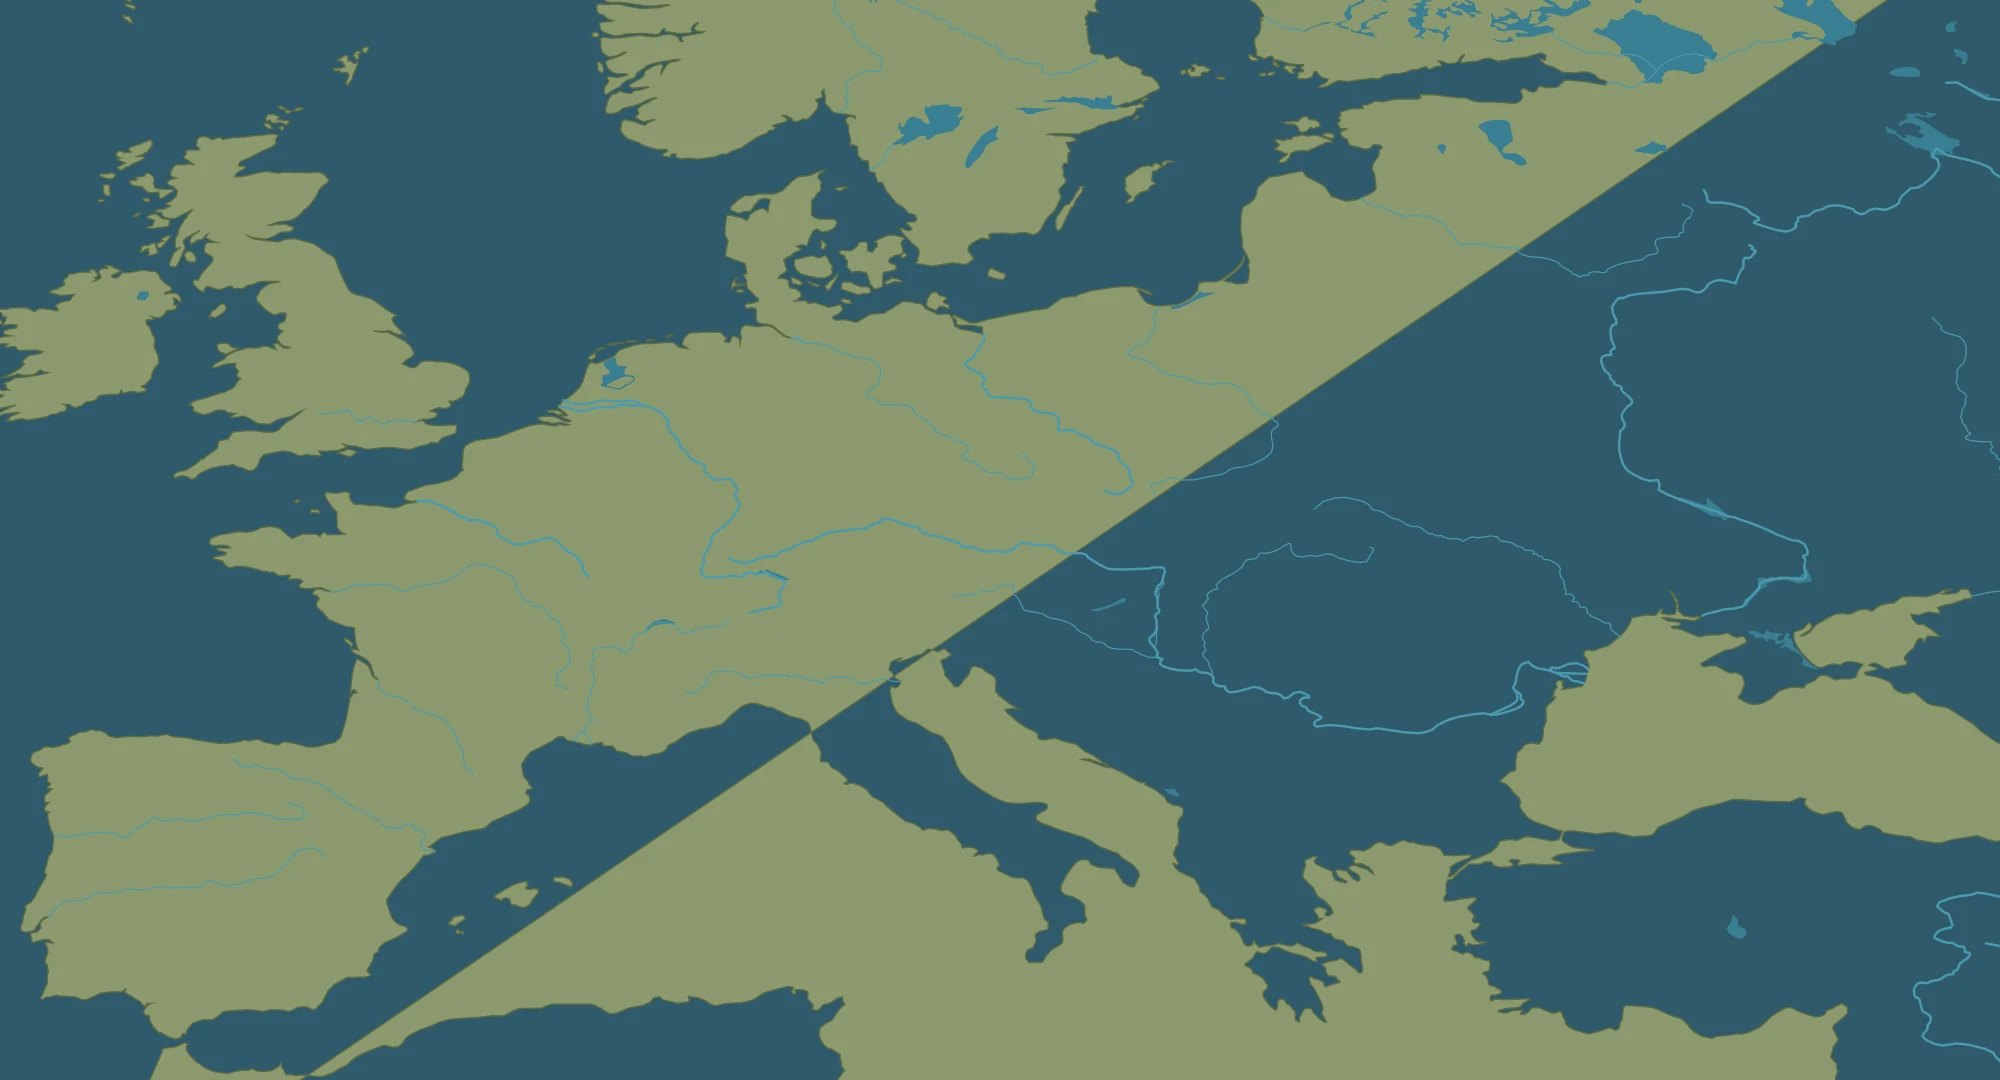
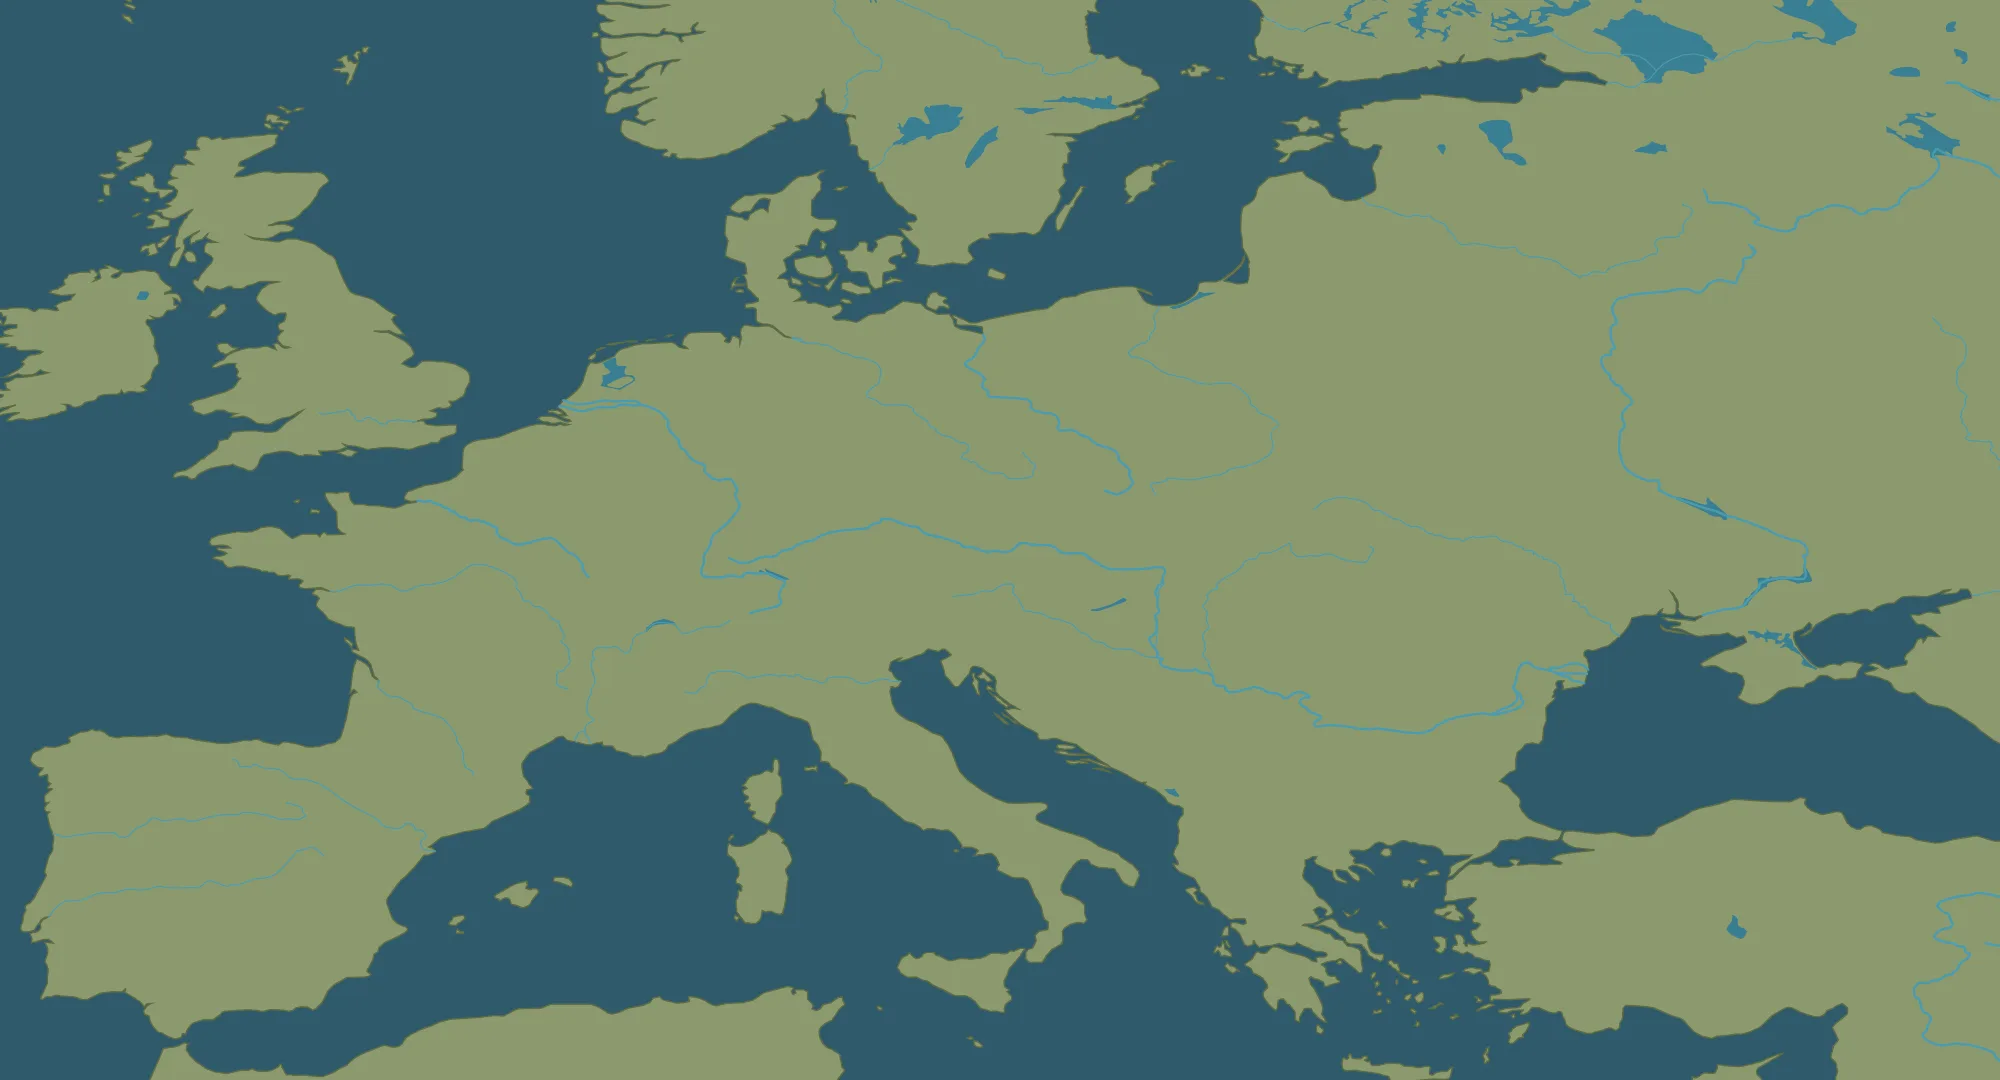
Europakarte: metrisch korrekte Georeferenzierung und vollständige Küsten
- Textur war ~67x zu klein gezeichnet; jetzt lineare Plate carrée mit Bezugsbreite 53,02°N
- Marker/Beschriftung gegenskaliert; Polygone nicht mehr abgeschnitten
- TODO aktualisiert

diff --git a/src/ui/KingdomMap.ts b/src/ui/KingdomMap.ts
@@ -1066,6 +1066,11 @@ export class KingdomMap {
     } else if (this.europeLayer.visible && zoom >= 0.02) {
       this.europeLayer.visible = false;
     }
+    if (this.europeLayer.visible) {
+      for (const child of this.europeLayer.children) {
+        if (child.label === 'europe-ui') child.scale.set(1 / Math.max(this.effectiveScreenScale(), 1e-9));
+      }
+    }
   }
 
   /**
@@ -1143,8 +1148,12 @@ export class KingdomMap {
     // Ganderkesee in Grad (aus EPSG:25832 Ortsmarker abgeleitet).
     const homeLon = 8.30, homeLat = 53.02;
     // Basispixel je Grad, so dass der Ortsmarker auf DWELLING_ANCHOR fällt.
-    const pxPerLon = 1 / 0.020833333; // 1 Basispixel = 20,8333 m; am Bezugsbreitengrad
-    const pxPerLat = pxPerLon / Math.cos(53.02 * Math.PI / 180); // Mercator-nahe Streckung
+    // Lineare Plate-carrée-Abbildung mit Metermaßstab am Bezugsbreitengrad:
+    // 1° Breite ≈ 110 950 m, 1° Länge ≈ 111 320 m × cos(Breite).
+    const METRES_PER_DEG_LAT = 110950;
+    const METRES_PER_DEG_LON_EQUATOR = 111320;
+    const pxPerLat = METRES_PER_DEG_LAT / METRES_PER_BASE_PIXEL;
+    const pxPerLon = METRES_PER_DEG_LON_EQUATOR * Math.cos(homeLat * Math.PI / 180) / METRES_PER_BASE_PIXEL;
     const lonToBase = (lon: number): number => (lon - homeLon) * pxPerLon;
     const latToBase = (lat: number): number => (homeLat - lat) * pxPerLat;
     const left = lonToBase(bounds.west);
@@ -1157,12 +1166,13 @@ export class KingdomMap {
     sprite.height = height;
     this.europeLayer.addChild(sprite);
     this.europeLayer.addChild(new Graphics()
-      .rect(left, top, width, height).stroke({ color: 0x6b8270, width: 2, alpha: 0.7 }));
+      .rect(left, top, width, height).stroke({ color: 0x6b8270, width: 300, alpha: 0.7 }));
     const note = new Text({
-      text: 'Europa · Natural Earth 50m (Public Domain) · Maßstab am Bezugsbreitengrad 56°N, Verzerrung Richtung Äquator · Rand = Datenlücke',
+      text: 'Europa · Natural Earth 50m (Public Domain) · lineare Plate-carrée-Abbildung, Maßstab nur um 53°N exakt · Rand = Datenlücke',
       style: { fontFamily: 'Georgia', fontSize: 16, fill: 0xf0e6c8,
-        stroke: { color: 0x1b2820, width: 3 }, wordWrap: true, wordWrapWidth: Math.min(900, width - 60) }
+        stroke: { color: 0x1b2820, width: 3 }, wordWrap: true, wordWrapWidth: 700 }
     });
+    note.label = 'europe-ui';
     note.position.set(left + 24, top + 20);
     this.europeLayer.addChild(note);
     // Belegte Ortsmarker (dokumentierte Stadt-Koordinaten, keine Grenzen).
@@ -1186,6 +1196,7 @@ export class KingdomMap {
       const py = latToBase(place.lat);
       if (px < left || px > left + width || py < top || py > top + height) continue;
       const marker = new Container();
+      marker.label = 'europe-ui';
       marker.position.set(px, py);
       marker.addChild(new Graphics()
         .circle(0, 0, 4).fill({ color: 0xffffff, alpha: 0.95 })
@@ -1201,6 +1212,10 @@ export class KingdomMap {
       this.europeLayer.addChild(marker);
     }
     this.app.canvas.dataset.europePlaces = String(PLACES.length);
+    const uiScale = 1 / Math.max(this.effectiveScreenScale(), 1e-9);
+    for (const child of this.europeLayer.children) {
+      if (child.label === 'europe-ui') child.scale.set(uiScale);
+    }
     this.app.canvas.dataset.europeBounds = JSON.stringify(bounds);
   }
 

diff --git a/TODO.md b/TODO.md
@@ -28,7 +28,7 @@ Die Aufgaben entsprechen dem nachgeprüften [Status](docs/00-meta/status.md) und
 - [~] **Nahgeometrie auf der Karte (Behausung, Schreibtisch):** Prozedurale Nahgeometrie (24-m-Hof, 6×8-m-Behausung, Möbel in Metern) an der Behausungsverankerung erscheint ab Zoom > 4; die Ich-Perspektive setzt die Kamera vor dem Betreten auf die Behausung. Offen: Die Nahgeometrie ist ein modelliertes Spielmodell (keine vermessenen Grundrisse); Innenansicht mit Dach-Ausblendung und stabile Hysterese gegen Flackern fehlen noch.
 - [x] **Optionale Ich-Perspektive (lokale erste Ausbaustufe):** 24×24-m-Hof mit 6×8-m-Behausung an der Behausungsverankerung, konsistente Meter, Umschauen (Ziehen/optionale Zeigersperre mit Escape-Ausweg), kurzes WASD-Gehen mit Kollision, saubere Rückkehr mit erhaltenem Kartenzoom; rohes WebGL nur für die lokale Sicht, keine zweite Simulation; Einrichtung als gekennzeichnete gestalterische Annäherung, „Bewegung reduzieren" drosselt Bewegung. Dokumentiert in `docs/05-technical-architecture/RENDERER.md`.
 - [~] **Lagebericht als schließbares Seitenblatt:** Die feste Berichtsspalte (292 px) entfällt aus dem Hauptlayout; der Bericht liegt als schließbares Seitenblatt über der Karte (Toggle ▤ in der Kartensteuerung, ✕ im Blatt, `aria-expanded`). Karten- und Verwaltungsbereiche erhalten die freie Fläche. Browserprüfung steht noch aus.
-- [ ] **Datenlücken (ausdrücklich offen):** (1) **Europaübersicht:** Erste Ausbaustufe umgesetzt (27.10.2026): `scripts/build-europe.mjs` rendert Natural Earth 50m (Land, Seen, Flüsse, Public Domain) zu `public/maps/europe-overview.webp` mit `europe-source.json` (Plate carrée/WGS84, Maßstab nur am Bezugsbreitengrad 56°N metrisch, Verzerrung dokumentiert). Die Ebene erscheint ab Zoom ≤ 0,014 mit Hysterese und ist georeferenziert am belegten Ortsmarker Ganderkesee (8,30°O/53,02°N → DWELLING_ANCHOR), kein Sprung beim Wechsel. Offen: politische Grenzen von Natural Earth (nicht nachgezeichnet), größere Abdeckung, Ortsmarker der Europastufe. (2) **Gemeindegrenze:** Keine georeferenzierten Verwaltungsdaten mit Quellen-/Lizenznachweis; keine Nachzeichnung nach Augenmaß. (3) **Vermessene Grundrisse:** Haus-/Möbelmaße sind modellierte Spielgeometrie. (4) **Historische Straßen-/Gebäudelagen:** heutige Geländegrundlage, keine Rekonstruktion.
+- [ ] **Datenlücken (ausdrücklich offen):** (1) **Europaübersicht:** Erste Ausbaustufe umgesetzt (27.10.2026): `scripts/build-europe.mjs` rendert Natural Earth 50m (Land, Seen, Flüsse, Public Domain) zu `public/maps/europe-overview.webp` mit `europe-source.json` (Plate carrée/WGS84, lineare Plate-carrée-Abbildung mit Lon/Lat-Verhältnis des Bezugsbreitengrads 53,02°N; Maßstab nur dort exakt, Nord-Süd-/West-Ost-Verzerrung sonst, Verzerrung dokumentiert). Die Ebene erscheint ab Zoom ≤ 0,014 mit Hysterese und ist georeferenziert am belegten Ortsmarker Ganderkesee (8,30°O/53,02°N → DWELLING_ANCHOR), kein Sprung beim Wechsel. Behoben (Folgeschritt): Textur war ~67× zu klein gezeichnet und mit abgeschnittenen Polygonen; jetzt metrisch korrekt, 12 Ortsmarker. Offen: politische Grenzen, größere Abdeckung, Kontrollpunktprüfung gegen Entfernungen (Berlin ≈ 380 km), OSM-Gemeindegrenze (ODbL, in .temp geladen, nicht integriert). (2) **Gemeindegrenze:** Keine georeferenzierten Verwaltungsdaten mit Quellen-/Lizenznachweis; keine Nachzeichnung nach Augenmaß. (3) **Vermessene Grundrisse:** Haus-/Möbelmaße sind modellierte Spielgeometrie. (4) **Historische Straßen-/Gebäudelagen:** heutige Geländegrundlage, keine Rekonstruktion.
 
 - [x] [Ganderkesee als Startregion](docs/05-technical-architecture/GANDERKESEE.md): amtliches Gelände, echtes Gewässernetz, maßstäbliche Karte und zeitabhängige Ortsmarken mit Quellen. Weitere Startorte benötigen noch Kartenpakete.
 - [x] Popups per Rad/Touch scrollen, Audio im Header, Ressourcenbestand in Wirtschaft, direkter Steuerregler und persistente Handelsauswahl.
